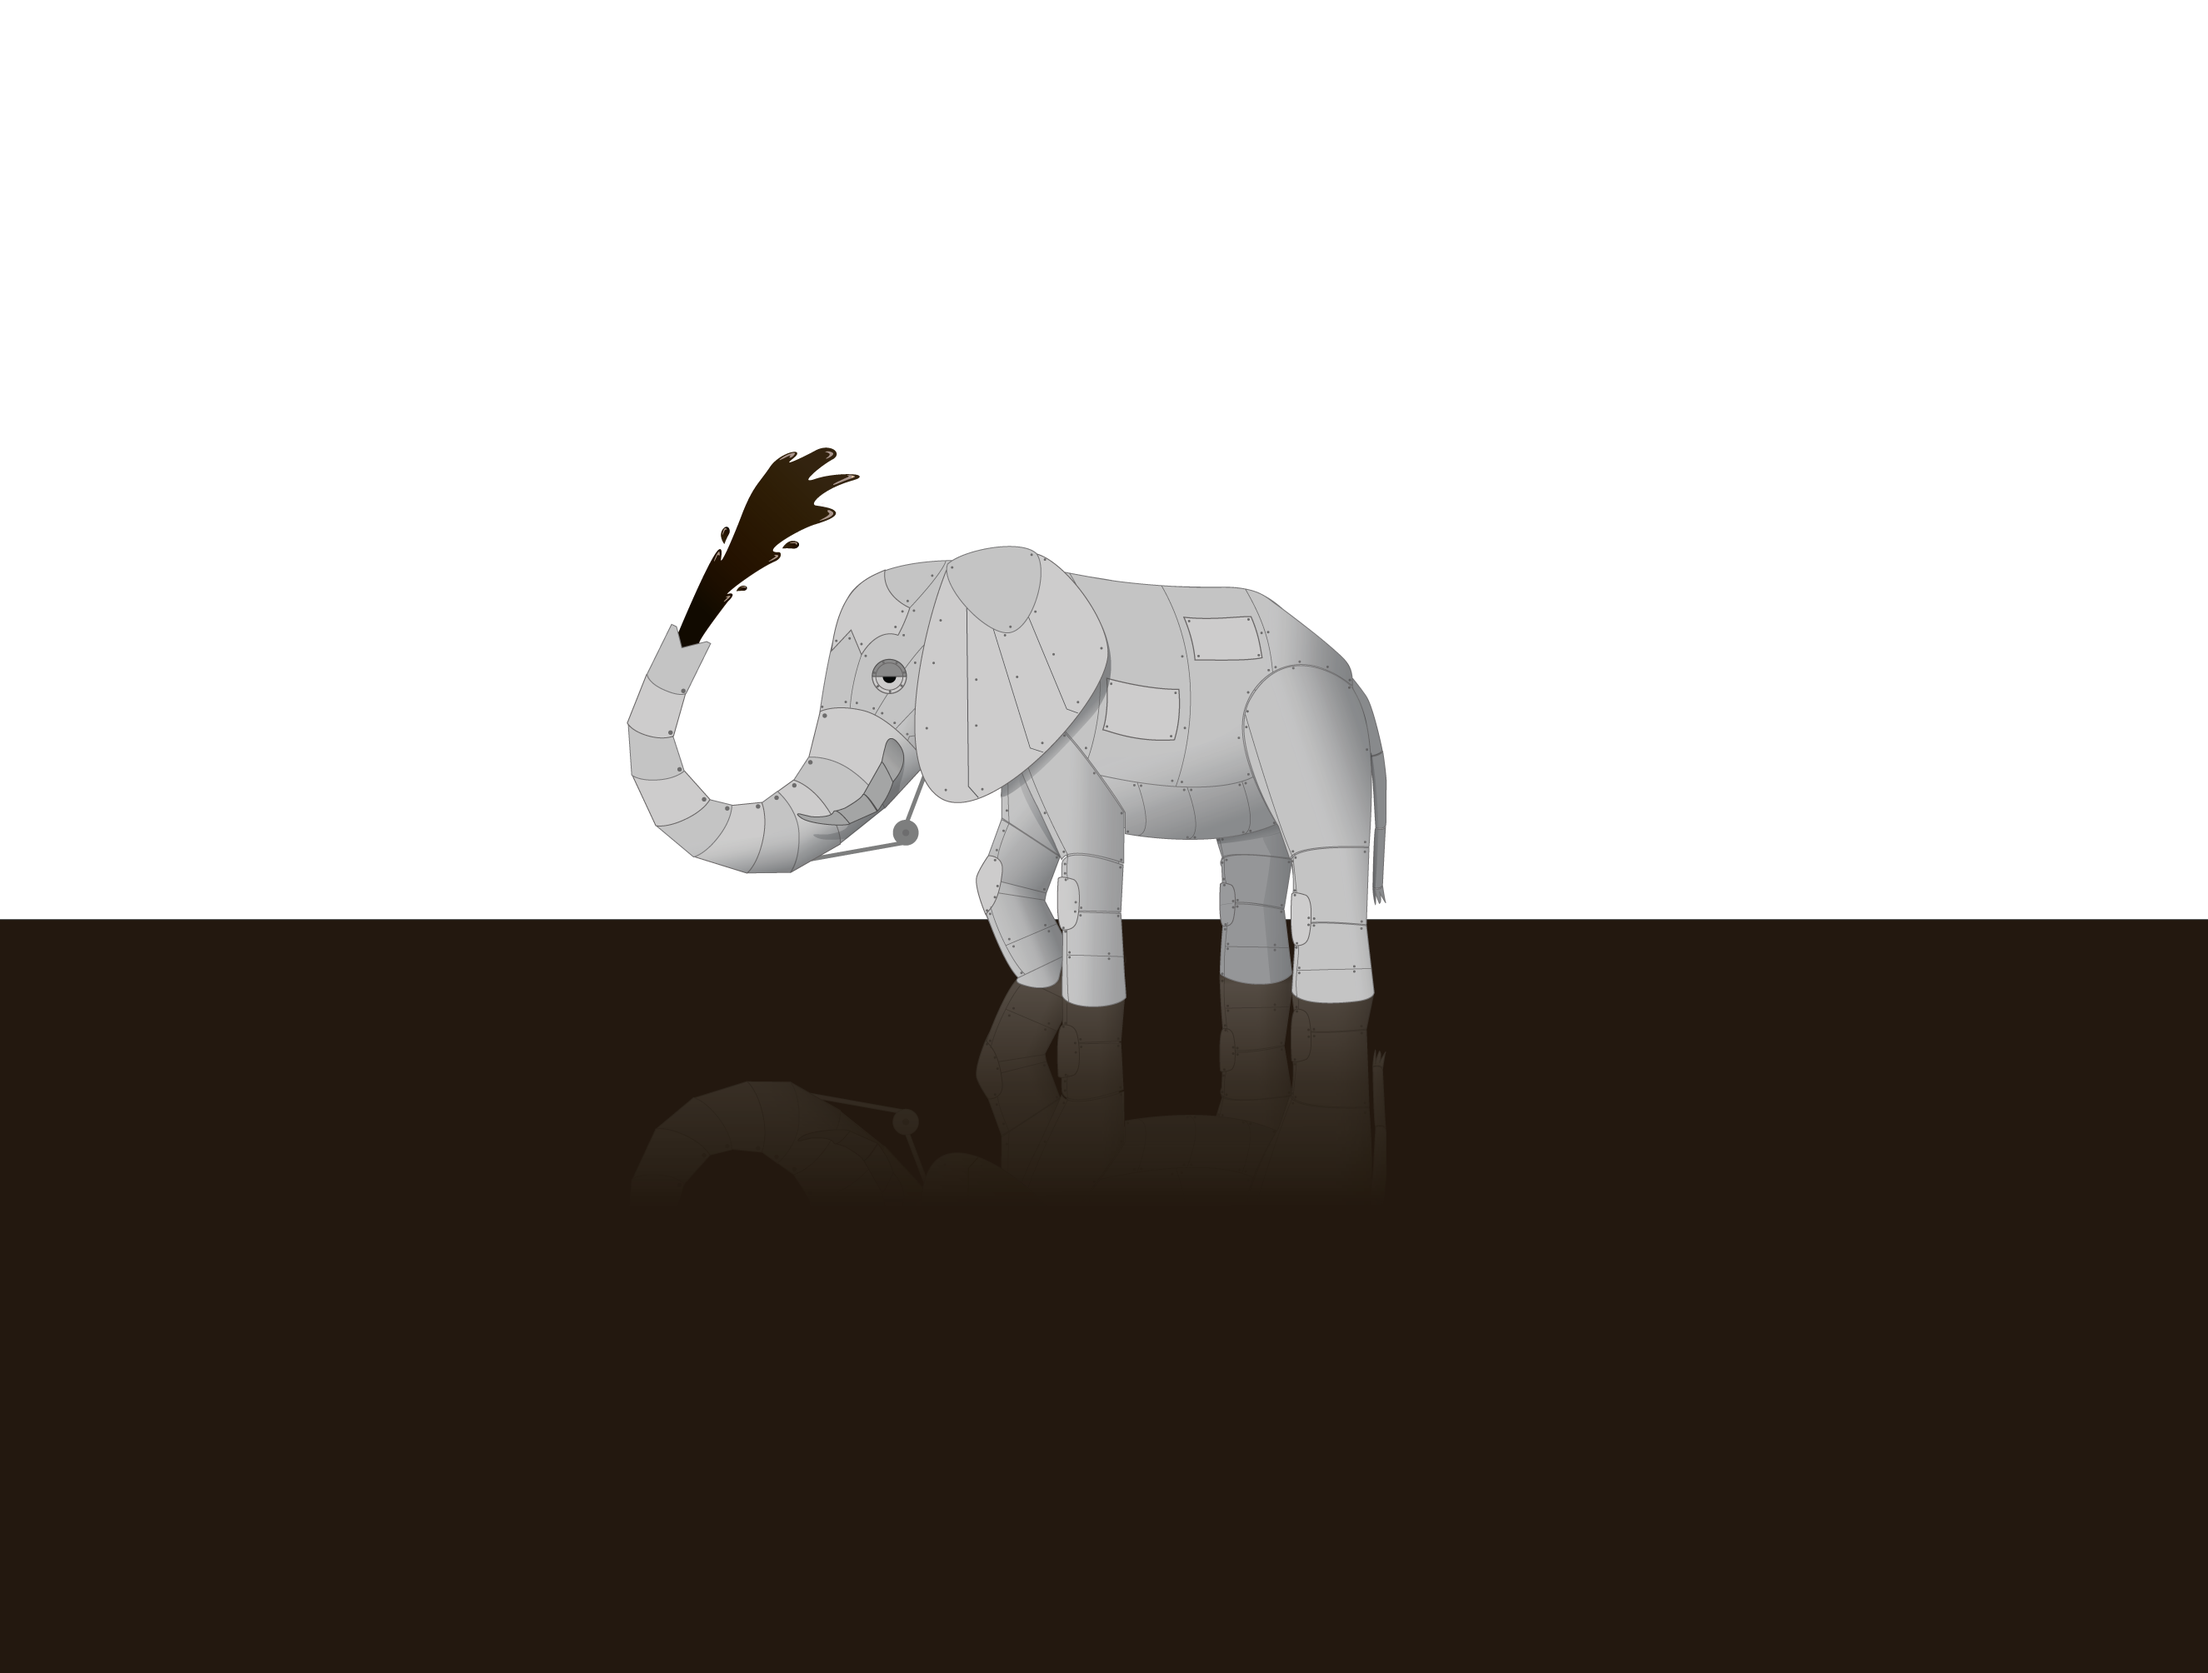
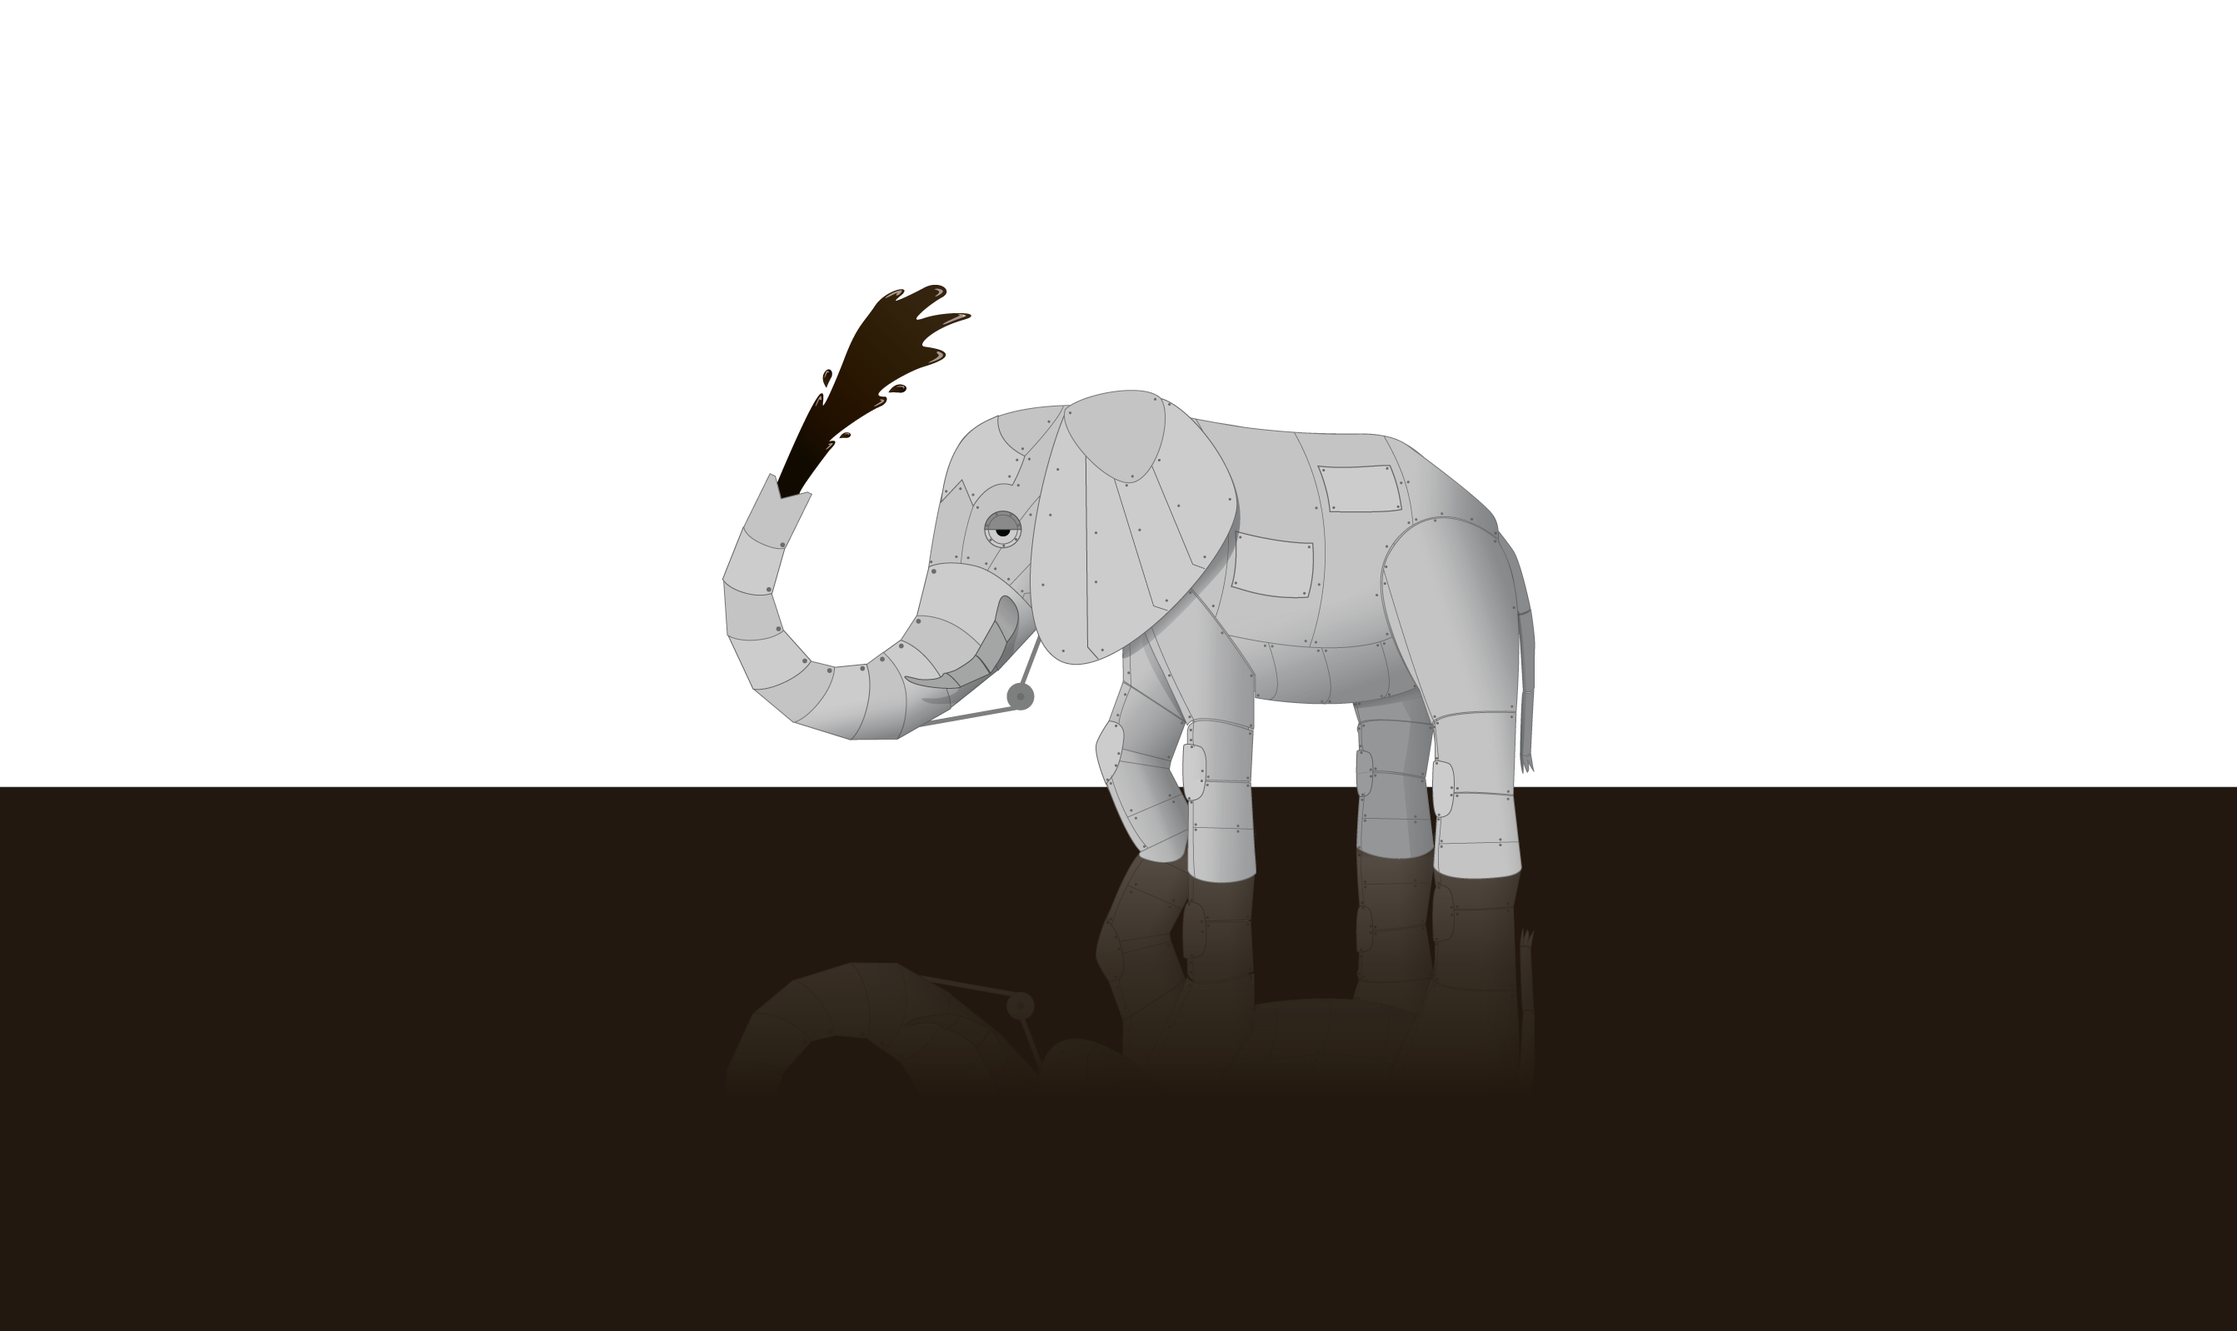
responsive changes
changes to article 2-4

Changed region(s): [[0.0, 0.2146, 1.0, 0.7359]]

diff --git a/css/style.css b/css/style.css
@@ -1,18 +1,18 @@
 
 
-article h2 { font-family: 'Sansita One', cursive; font-size:3.125em; margin: 25px 0; line-height: 1.125em; }
+article h2 { font-family: 'Sansita One', cursive; font-size:3.125em; margin-top:10%; margin-left:5%; line-height: 1.125em; }
 
 .story { height: 1000px; padding: 0; margin: 0; width: 100%; position: relative; margin: 0 auto; border-top: 1px solid rgba(255,255,255,0.3); border-bottom: 1px solid rgba(0,0,0,0.4); box-shadow: 0 0 50px rgba(0,0,0,0.8);}
 
 #first { background:#ffffff 50% 0 no-repeat fixed; }
 #second { background:url(../images/robot-1296x864.png) 50% 0 no-repeat fixed; }
-#fourth { background: url(../images/website.png) 50% 0 no-repeat fixed; }
 #third { background: url(../images/coasters.png) 50% 0 no-repeat fixed; }
+#fourth { background: url(../images/website.png) 50% 0 no-repeat fixed; }
 #theend { background-color:#878585 50% bottom no-repeat fixed; }
 
 /* Introduction */
 #first .kdlogo { background: url(../images/logo1.png) 50% 100px no-repeat fixed; min-height: 1000px; padding: 0; margin: 0; width: 100%; max-width: 1920px; position: relative; margin: 0 auto; }
-#first article { width: 100%; top: 40%; position: absolute; text-align: center; }
+#first article { width: 100%; top: 400px; position: absolute; text-align: center; }
 #first article p,
 #first article a { color: #ccc; }
 #first article a { text-decoration: none; }
@@ -23,38 +23,75 @@ article h2 { font-family: 'Sansita One', cursive; font-size:3.125em; margin: 25p
 	margin-right:5px;
 	margin-bottom:10px;
 	}
-img {
-	max-width:100%;
-	}
+
+
 	
 /* Background Only */
-#second { padding: 35% 0;}
-#second article { background: url(../images/grain.png) repeat #333; color: #fff; width: 20%; margin-left: 31%; padding: .5% 1%; text-shadow: 0 -1px 0 rgba(0,0,0,0.5); line-height: 1.5em; box-shadow: 0 0 25px rgba(0,0,0,0.3); border: 1px solid rgba(150,150,150,0.1); }
-#second article p { margin-bottom: 25px; }
+#second { padding: 50px 0;}
+#second article { background: url(../images/grain.png) repeat #333; color: #fff; width: 445px; margin-left: 25%; margin-top: 525px; padding: 10px 20px; text-shadow: 0 -1px 0 rgba(0,0,0,0.5); line-height: 1.5em; box-shadow: 0 0 25px rgba(0,0,0,0.3); border: 1px solid rgba(150,150,150,0.1); }
+#second article p { margin: 2%; margin-bottom:10%;  }
 
 
 /* Photograph */
-#third article {  background: url(../images/grain.png) repeat #333; color: #fff; padding: .5% 1%; margin: 5% 0 0 60%; text-shadow: 0 -1px 0 rgba(0,0,0,0.5); line-height: 1.5em; color: #fff; position: absolute; top: 0; box-shadow: 0 0 25px rgba(0,0,0,0.3); border: 1px solid rgba(150,150,150,0.1); }
-#third article p { width: 300px; margin-bottom: 25px; }
+#third article {  background: url(../images/grain.png) repeat #333; color: #fff; padding: 10px 20px; width: 300px; margin: 5% 0 0 51%; text-shadow: 0 -1px 0 rgba(0,0,0,0.5); line-height: 1.5em; color: #fff; position: absolute; top: 0; box-shadow: 0 0 25px rgba(0,0,0,0.3); border: 1px solid rgba(150,150,150,0.1); }
+#third article p { margin: 2%; margin-bottom:10%;  }
 
 /* HTML5 Video */
 
-#fourth article {  background: url(../images/grain.png) repeat #333; margin-left: 2%; padding: 10px 20px; text-shadow: 0 -1px 0 rgba(0,0,0,0.5); line-height: 1.5em; color: #fff; position: absolute; top: 60px; }
-#fourth article p { width: 300px; margin: 50px 0; }
+#fourth article {  background: url(../images/grain.png) repeat #333; width: 300px; margin-left: 10%; margin-top:200px; padding: 10px 20px; text-shadow: 0 -1px 0 rgba(0,0,0,0.5); line-height: 1.5em; color: #fff; position: absolute; top: 60px; }
+#fourth article p { margin: 2%; margin-bottom:10%; }
 
 a{
 	text-decoration:none;
 }
 
 /* The End */
-#theend .byebye { background: url(../images/findme.png) 40% 100px no-repeat fixed; height: 1000px; padding: 0; margin: 0; width: 100%; max-width: 1920px; position: relative; margin: 0 auto; }
+#theend .byebye { background: url(../images/findme.png) 40% 100px no-repeat fixed; height: 1000px; padding:	 0; margin: 0; width: 100%; max-width: 1920px; position: relative; margin: 0 auto; }
 
-/*medium resolution-------------*/
+
+	
+/*smaller resolution-------------*/
+@media screen and (max-width: 650px) {
+	
+	#second {
+		padding: 0;
+		background-size:auto; 
+		}
+	#second article {
+		margin-left:5%;
+		width:80%;
+		margin-right:5%;
+		margin-top:70%
+		}
+	#third {
+		padding: 0; 
+		}
+	#third article {
+		margin-left:5%;
+		width:80%;
+		margin-top:30%;
+		margin-right:5%;
+		}
+	#fourth {
+		padding: 0; 
+		}
+	#fourth article {
+		margin-left:2.5%;
+		width:80%;
+		margin-right:5%;
+		}
+		
+	
+/* Larger ----------- */
 @media screen and (max-width: 1024px) {
-	width:100%;
-	
-	
-	
-	}
+	#second {
+		padding:5px 0; 
+		}
+
+
+
+
+
+}
 
 

diff --git a/index.html b/index.html
@@ -5,11 +5,11 @@
   <meta http-equiv="X-UA-Compatible" content="IE=edge,chrome=1">
 
   <title>Kimberly Denham's Portfolio</title>
-
-  
-  <link rel="stylesheet" href="css/reset.css">
-  <link rel="stylesheet" href="css/style.css">
+	
+  <link rel="stylesheet" href="css/reset.css" type="text/css" media="screen">
+  <link rel="stylesheet" href="css/style.css" type="text/css" media="screen">
   <link href='http://fonts.googleapis.com/css?family=Sansita+One' rel='stylesheet' type='text/css'>
+  <meta name="viewport" content="width=device-width, initial-scale = 1.0">
 
   <script type="text/javascript">
 	function MM_swapImgRestore() { //v3.0
